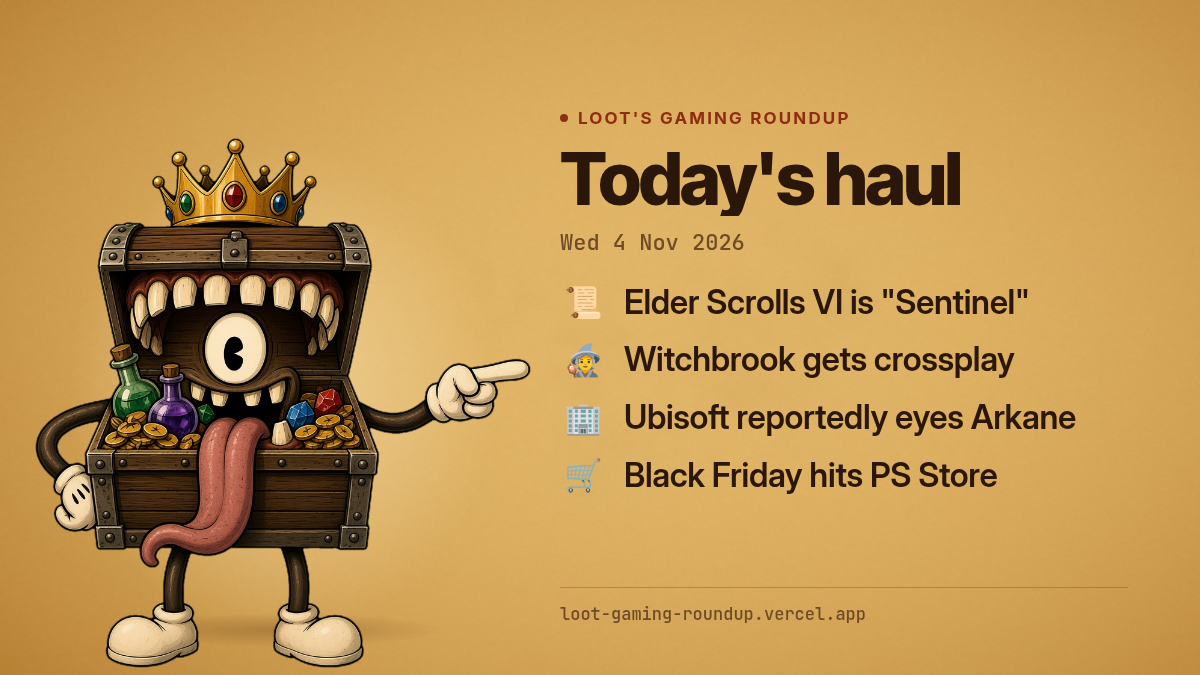
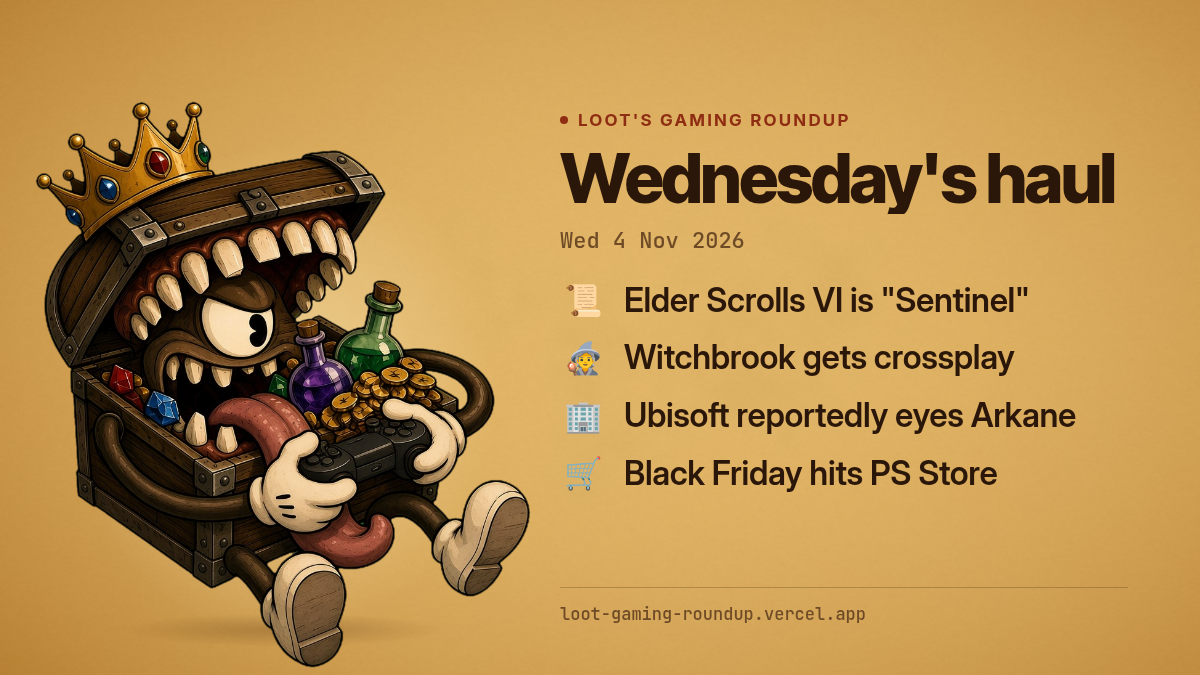
Backfill X haul images for archive tiles (11–30 Oct, 4–6 Nov)

diff --git a/archive.html b/archive.html
@@ -248,7 +248,7 @@ a.ed-tile:focus-visible{outline:2px solid var(--accent);outline-offset:3px;borde
 </div>
 </header>
 <div class="wrap wrap--archive" id="top">
-<div class="intro"><div class="kicker"><span class="dot"></span>Archive</div><div class="date">Every past edition, newest first</div></div><div class="archive-kpis"><div class="archive-kpi is-hero" title="Sum of each edition&#x27;s unique visitors. Someone who reads two editions is counted in each. Home-page visits are not included."><span class="archive-kpi-label">Unique visitors</span><span class="archive-kpi-value">5</span></div><div class="archive-kpi"><span class="archive-kpi-label">Editions</span><span class="archive-kpi-value">31</span></div><div class="archive-kpi"><span class="archive-kpi-label">Stories</span><span class="archive-kpi-value">331</span></div></div><section id="archive"><h2>Past editions<span class="count">2026 · 31 editions</span></h2><ul class="archive-grid"><li><a class="ed-tile" href="/2026-11-10.html" aria-label="Tuesday 10 November 2026, 10 stories, 0 unique visitors" title="Tuesday 10 November 2026, 10 stories, 0 unique visitors"><img src="/x/2026-11-10.png" alt="Tuesday&#x27;s haul" width="1200" height="675" loading="lazy" decoding="async"></a></li><li><a class="ed-tile" href="/2026-11-09.html" aria-label="Monday 9 November 2026, 10 stories, 0 unique visitors" title="Monday 9 November 2026, 10 stories, 0 unique visitors"><img src="/x/2026-11-09.png" alt="Monday&#x27;s haul" width="1200" height="675" loading="lazy" decoding="async"></a></li><li><a class="ed-tile" href="/2026-11-08.html" aria-label="Sunday 8 November 2026, 7 stories, 0 unique visitors" title="Sunday 8 November 2026, 7 stories, 0 unique visitors"><img src="/x/2026-11-08.png" alt="Sunday&#x27;s haul" width="1200" height="675" loading="lazy" decoding="async"></a></li><li><a class="ed-tile" href="/2026-11-07.html" aria-label="Saturday 7 November 2026, 8 stories, 0 unique visitors" title="Saturday 7 November 2026, 8 stories, 0 unique visitors"><img src="/x/2026-11-07.png" alt="Saturday&#x27;s haul" width="1200" height="675" loading="lazy" decoding="async"></a></li><li><a class="ed-tile ed-tile-text" href="/2026-11-06.html" aria-label="Friday 6 November 2026, 12 stories"><div><h3 class="ed-tile-title">Friday</h3><div class="ed-tile-date">Fri 6 Nov 2026</div></div><div class="ed-tile-stats"><span><b>12</b> stories</span></div></a></li><li><a class="ed-tile ed-tile-text" href="/2026-11-05.html" aria-label="Thursday 5 November 2026, 12 stories"><div><h3 class="ed-tile-title">Thursday</h3><div class="ed-tile-date">Thu 5 Nov 2026</div></div><div class="ed-tile-stats"><span><b>12</b> stories</span></div></a></li><li><a class="ed-tile ed-tile-text" href="/2026-11-04.html" aria-label="Wednesday 4 November 2026, 12 stories"><div><h3 class="ed-tile-title">Wednesday</h3><div class="ed-tile-date">Wed 4 Nov 2026</div></div><div class="ed-tile-stats"><span><b>12</b> stories</span></div></a></li><li><a class="ed-tile ed-tile-text" href="/2026-11-03.html" aria-label="Tuesday 3 November 2026, 14 stories"><div><h3 class="ed-tile-title">Tuesday</h3><div class="ed-tile-date">Tue 3 Nov 2026</div></div><div class="ed-tile-stats"><span><b>14</b> stories</span></div></a></li><li><a class="ed-tile ed-tile-text" href="/2026-11-02.html" aria-label="Monday 2 November 2026, 13 stories"><div><h3 class="ed-tile-title">Monday</h3><div class="ed-tile-date">Mon 2 Nov 2026</div></div><div class="ed-tile-stats"><span><b>13</b> stories</span></div></a></li><li><a class="ed-tile ed-tile-text" href="/2026-11-01.html" aria-label="Sunday 1 November 2026, 11 stories"><div><h3 class="ed-tile-title">Sunday</h3><div class="ed-tile-date">Sun 1 Nov 2026</div></div><div class="ed-tile-stats"><span><b>11</b> stories</span></div></a></li><li><a class="ed-tile ed-tile-text" href="/2026-10-31.html" aria-label="Saturday 31 October 2026, 12 stories"><div><h3 class="ed-tile-title">Saturday</h3><div class="ed-tile-date">Sat 31 Oct 2026</div></div><div class="ed-tile-stats"><span><b>12</b> stories</span></div></a></li><li><a class="ed-tile ed-tile-text" href="/2026-10-30.html" aria-label="Friday 30 October 2026, 11 stories"><div><h3 class="ed-tile-title">Friday</h3><div class="ed-tile-date">Fri 30 Oct 2026</div></div><div class="ed-tile-stats"><span><b>11</b> stories</span></div></a></li><li><a class="ed-tile ed-tile-text" href="/2026-10-29.html" aria-label="Thursday 29 October 2026, 12 stories"><div><h3 class="ed-tile-title">Thursday</h3><div class="ed-tile-date">Thu 29 Oct 2026</div></div><div class="ed-tile-stats"><span><b>12</b> stories</span></div></a></li><li><a class="ed-tile ed-tile-text" href="/2026-10-28.html" aria-label="Wednesday 28 October 2026, 11 stories"><div><h3 class="ed-tile-title">Wednesday</h3><div class="ed-tile-date">Wed 28 Oct 2026</div></div><div class="ed-tile-stats"><span><b>11</b> stories</span></div></a></li><li><a class="ed-tile ed-tile-text" href="/2026-10-27.html" aria-label="Tuesday 27 October 2026, 9 stories"><div><h3 class="ed-tile-title">Tuesday</h3><div class="ed-tile-date">Tue 27 Oct 2026</div></div><div class="ed-tile-stats"><span><b>9</b> stories</span></div></a></li><li><a class="ed-tile ed-tile-text" href="/2026-10-26.html" aria-label="Monday 26 October 2026, 8 stories"><div><h3 class="ed-tile-title">Monday</h3><div class="ed-tile-date">Mon 26 Oct 2026</div></div><div class="ed-tile-stats"><span><b>8</b> stories</span></div></a></li><li><a class="ed-tile ed-tile-text" href="/2026-10-25.html" aria-label="Sunday 25 October 2026, 8 stories"><div><h3 class="ed-tile-title">Sunday</h3><div class="ed-tile-date">Sun 25 Oct 2026</div></div><div class="ed-tile-stats"><span><b>8</b> stories</span></div></a></li><li><a class="ed-tile ed-tile-text" href="/2026-10-24.html" aria-label="Saturday 24 October 2026, 12 stories"><div><h3 class="ed-tile-title">Saturday</h3><div class="ed-tile-date">Sat 24 Oct 2026</div></div><div class="ed-tile-stats"><span><b>12</b> stories</span></div></a></li><li><a class="ed-tile ed-tile-text" href="/2026-10-23.html" aria-label="Friday 23 October 2026, 11 stories"><div><h3 class="ed-tile-title">Friday</h3><div class="ed-tile-date">Fri 23 Oct 2026</div></div><div class="ed-tile-stats"><span><b>11</b> stories</span></div></a></li><li><a class="ed-tile ed-tile-text" href="/2026-10-22.html" aria-label="Thursday 22 October 2026, 8 stories"><div><h3 class="ed-tile-title">Thursday</h3><div class="ed-tile-date">Thu 22 Oct 2026</div></div><div class="ed-tile-stats"><span><b>8</b> stories</span></div></a></li><li><a class="ed-tile ed-tile-text" href="/2026-10-21.html" aria-label="Wednesday 21 October 2026, 12 stories"><div><h3 class="ed-tile-title">Wednesday</h3><div class="ed-tile-date">Wed 21 Oct 2026</div></div><div class="ed-tile-stats"><span><b>12</b> stories</span></div></a></li><li><a class="ed-tile ed-tile-text" href="/2026-10-20.html" aria-label="Tuesday 20 October 2026, 10 stories"><div><h3 class="ed-tile-title">Tuesday</h3><div class="ed-tile-date">Tue 20 Oct 2026</div></div><div class="ed-tile-stats"><span><b>10</b> stories</span></div></a></li><li><a class="ed-tile ed-tile-text" href="/2026-10-19.html" aria-label="Monday 19 October 2026, 10 stories"><div><h3 class="ed-tile-title">Monday</h3><div class="ed-tile-date">Mon 19 Oct 2026</div></div><div class="ed-tile-stats"><span><b>10</b> stories</span></div></a></li><li><a class="ed-tile ed-tile-text" href="/2026-10-18.html" aria-label="Sunday 18 October 2026, 9 stories"><div><h3 class="ed-tile-title">Sunday</h3><div class="ed-tile-date">Sun 18 Oct 2026</div></div><div class="ed-tile-stats"><span><b>9</b> stories</span></div></a></li><li><a class="ed-tile ed-tile-text" href="/2026-10-17.html" aria-label="Saturday 17 October 2026, 16 stories"><div><h3 class="ed-tile-title">Saturday</h3><div class="ed-tile-date">Sat 17 Oct 2026</div></div><div class="ed-tile-stats"><span><b>16</b> stories</span></div></a></li><li><a class="ed-tile ed-tile-text" href="/2026-10-16.html" aria-label="Friday 16 October 2026, 11 stories"><div><h3 class="ed-tile-title">Friday</h3><div class="ed-tile-date">Fri 16 Oct 2026</div></div><div class="ed-tile-stats"><span><b>11</b> stories</span></div></a></li><li><a class="ed-tile ed-tile-text" href="/2026-10-15.html" aria-label="Thursday 15 October 2026, 12 stories"><div><h3 class="ed-tile-title">Thursday</h3><div class="ed-tile-date">Thu 15 Oct 2026</div></div><div class="ed-tile-stats"><span><b>12</b> stories</span></div></a></li><li><a class="ed-tile ed-tile-text" href="/2026-10-14.html" aria-label="Wednesday 14 October 2026, 12 stories"><div><h3 class="ed-tile-title">Wednesday</h3><div class="ed-tile-date">Wed 14 Oct 2026</div></div><div class="ed-tile-stats"><span><b>12</b> stories</span></div></a></li><li><a class="ed-tile ed-tile-text" href="/2026-10-13.html" aria-label="Tuesday 13 October 2026, 8 stories"><div><h3 class="ed-tile-title">Tuesday</h3><div class="ed-tile-date">Tue 13 Oct 2026</div></div><div class="ed-tile-stats"><span><b>8</b> stories</span></div></a></li><li><a class="ed-tile ed-tile-text" href="/2026-10-12.html" aria-label="Monday 12 October 2026, 10 stories"><div><h3 class="ed-tile-title">Monday</h3><div class="ed-tile-date">Mon 12 Oct 2026</div></div><div class="ed-tile-stats"><span><b>10</b> stories</span></div></a></li><li><a class="ed-tile ed-tile-text" href="/2026-10-11.html" aria-label="Sunday 11 October 2026, 10 stories"><div><h3 class="ed-tile-title">Sunday</h3><div class="ed-tile-date">Sun 11 Oct 2026</div></div><div class="ed-tile-stats"><span><b>10</b> stories</span></div></a></li></ul></section>
+<div class="intro"><div class="kicker"><span class="dot"></span>Archive</div><div class="date">Every past edition, newest first</div></div><div class="archive-kpis"><div class="archive-kpi is-hero" title="Sum of each edition&#x27;s unique visitors. Someone who reads two editions is counted in each. Home-page visits are not included."><span class="archive-kpi-label">Unique visitors</span><span class="archive-kpi-value">5</span></div><div class="archive-kpi"><span class="archive-kpi-label">Editions</span><span class="archive-kpi-value">31</span></div><div class="archive-kpi"><span class="archive-kpi-label">Stories</span><span class="archive-kpi-value">331</span></div></div><section id="archive"><h2>Past editions<span class="count">2026 · 31 editions</span></h2><ul class="archive-grid"><li><a class="ed-tile" href="/2026-11-10.html" aria-label="Tuesday 10 November 2026, 10 stories, 0 unique visitors" title="Tuesday 10 November 2026, 10 stories, 0 unique visitors"><img src="/x/2026-11-10.png" alt="Tuesday&#x27;s haul" width="1200" height="675" loading="lazy" decoding="async"></a></li><li><a class="ed-tile" href="/2026-11-09.html" aria-label="Monday 9 November 2026, 10 stories, 0 unique visitors" title="Monday 9 November 2026, 10 stories, 0 unique visitors"><img src="/x/2026-11-09.png" alt="Monday&#x27;s haul" width="1200" height="675" loading="lazy" decoding="async"></a></li><li><a class="ed-tile" href="/2026-11-08.html" aria-label="Sunday 8 November 2026, 7 stories, 0 unique visitors" title="Sunday 8 November 2026, 7 stories, 0 unique visitors"><img src="/x/2026-11-08.png" alt="Sunday&#x27;s haul" width="1200" height="675" loading="lazy" decoding="async"></a></li><li><a class="ed-tile" href="/2026-11-07.html" aria-label="Saturday 7 November 2026, 8 stories, 0 unique visitors" title="Saturday 7 November 2026, 8 stories, 0 unique visitors"><img src="/x/2026-11-07.png" alt="Saturday&#x27;s haul" width="1200" height="675" loading="lazy" decoding="async"></a></li><li><a class="ed-tile" href="/2026-11-06.html" aria-label="Friday 6 November 2026, 12 stories, 0 unique visitors" title="Friday 6 November 2026, 12 stories, 0 unique visitors"><img src="/x/2026-11-06.png" alt="Friday&#x27;s haul" width="1200" height="675" loading="lazy" decoding="async"></a></li><li><a class="ed-tile" href="/2026-11-05.html" aria-label="Thursday 5 November 2026, 12 stories, 0 unique visitors" title="Thursday 5 November 2026, 12 stories, 0 unique visitors"><img src="/x/2026-11-05.png" alt="Thursday&#x27;s haul" width="1200" height="675" loading="lazy" decoding="async"></a></li><li><a class="ed-tile" href="/2026-11-04.html" aria-label="Wednesday 4 November 2026, 12 stories, 0 unique visitors" title="Wednesday 4 November 2026, 12 stories, 0 unique visitors"><img src="/x/2026-11-04.png" alt="Wednesday&#x27;s haul" width="1200" height="675" loading="lazy" decoding="async"></a></li><li><a class="ed-tile ed-tile-text" href="/2026-11-03.html" aria-label="Tuesday 3 November 2026, 14 stories"><div><h3 class="ed-tile-title">Tuesday</h3><div class="ed-tile-date">Tue 3 Nov 2026</div></div><div class="ed-tile-stats"><span><b>14</b> stories</span></div></a></li><li><a class="ed-tile ed-tile-text" href="/2026-11-02.html" aria-label="Monday 2 November 2026, 13 stories"><div><h3 class="ed-tile-title">Monday</h3><div class="ed-tile-date">Mon 2 Nov 2026</div></div><div class="ed-tile-stats"><span><b>13</b> stories</span></div></a></li><li><a class="ed-tile ed-tile-text" href="/2026-11-01.html" aria-label="Sunday 1 November 2026, 11 stories"><div><h3 class="ed-tile-title">Sunday</h3><div class="ed-tile-date">Sun 1 Nov 2026</div></div><div class="ed-tile-stats"><span><b>11</b> stories</span></div></a></li><li><a class="ed-tile ed-tile-text" href="/2026-10-31.html" aria-label="Saturday 31 October 2026, 12 stories"><div><h3 class="ed-tile-title">Saturday</h3><div class="ed-tile-date">Sat 31 Oct 2026</div></div><div class="ed-tile-stats"><span><b>12</b> stories</span></div></a></li><li><a class="ed-tile" href="/2026-10-30.html" aria-label="Friday 30 October 2026, 11 stories, 2 unique visitors" title="Friday 30 October 2026, 11 stories, 2 unique visitors"><img src="/x/2026-10-30.png" alt="Friday&#x27;s haul" width="1200" height="675" loading="lazy" decoding="async"></a></li><li><a class="ed-tile" href="/2026-10-29.html" aria-label="Thursday 29 October 2026, 12 stories, 0 unique visitors" title="Thursday 29 October 2026, 12 stories, 0 unique visitors"><img src="/x/2026-10-29.png" alt="Thursday&#x27;s haul" width="1200" height="675" loading="lazy" decoding="async"></a></li><li><a class="ed-tile" href="/2026-10-28.html" aria-label="Wednesday 28 October 2026, 11 stories, 0 unique visitors" title="Wednesday 28 October 2026, 11 stories, 0 unique visitors"><img src="/x/2026-10-28.png" alt="Wednesday&#x27;s haul" width="1200" height="675" loading="lazy" decoding="async"></a></li><li><a class="ed-tile" href="/2026-10-27.html" aria-label="Tuesday 27 October 2026, 9 stories, 0 unique visitors" title="Tuesday 27 October 2026, 9 stories, 0 unique visitors"><img src="/x/2026-10-27.png" alt="Tuesday&#x27;s haul" width="1200" height="675" loading="lazy" decoding="async"></a></li><li><a class="ed-tile" href="/2026-10-26.html" aria-label="Monday 26 October 2026, 8 stories, 0 unique visitors" title="Monday 26 October 2026, 8 stories, 0 unique visitors"><img src="/x/2026-10-26.png" alt="Monday&#x27;s haul" width="1200" height="675" loading="lazy" decoding="async"></a></li><li><a class="ed-tile" href="/2026-10-25.html" aria-label="Sunday 25 October 2026, 8 stories, 1 unique visitor" title="Sunday 25 October 2026, 8 stories, 1 unique visitor"><img src="/x/2026-10-25.png" alt="Sunday&#x27;s haul" width="1200" height="675" loading="lazy" decoding="async"></a></li><li><a class="ed-tile" href="/2026-10-24.html" aria-label="Saturday 24 October 2026, 12 stories, 2 unique visitors" title="Saturday 24 October 2026, 12 stories, 2 unique visitors"><img src="/x/2026-10-24.png" alt="Saturday&#x27;s haul" width="1200" height="675" loading="lazy" decoding="async"></a></li><li><a class="ed-tile" href="/2026-10-23.html" aria-label="Friday 23 October 2026, 11 stories, 0 unique visitors" title="Friday 23 October 2026, 11 stories, 0 unique visitors"><img src="/x/2026-10-23.png" alt="Friday&#x27;s haul" width="1200" height="675" loading="lazy" decoding="async"></a></li><li><a class="ed-tile" href="/2026-10-22.html" aria-label="Thursday 22 October 2026, 8 stories, 0 unique visitors" title="Thursday 22 October 2026, 8 stories, 0 unique visitors"><img src="/x/2026-10-22.png" alt="Thursday&#x27;s haul" width="1200" height="675" loading="lazy" decoding="async"></a></li><li><a class="ed-tile" href="/2026-10-21.html" aria-label="Wednesday 21 October 2026, 12 stories" title="Wednesday 21 October 2026, 12 stories"><img src="/x/2026-10-21.png" alt="Wednesday&#x27;s haul" width="1200" height="675" loading="lazy" decoding="async"></a></li><li><a class="ed-tile" href="/2026-10-20.html" aria-label="Tuesday 20 October 2026, 10 stories" title="Tuesday 20 October 2026, 10 stories"><img src="/x/2026-10-20.png" alt="Tuesday&#x27;s haul" width="1200" height="675" loading="lazy" decoding="async"></a></li><li><a class="ed-tile" href="/2026-10-19.html" aria-label="Monday 19 October 2026, 10 stories" title="Monday 19 October 2026, 10 stories"><img src="/x/2026-10-19.png" alt="Monday&#x27;s haul" width="1200" height="675" loading="lazy" decoding="async"></a></li><li><a class="ed-tile" href="/2026-10-18.html" aria-label="Sunday 18 October 2026, 9 stories" title="Sunday 18 October 2026, 9 stories"><img src="/x/2026-10-18.png" alt="Sunday&#x27;s haul" width="1200" height="675" loading="lazy" decoding="async"></a></li><li><a class="ed-tile" href="/2026-10-17.html" aria-label="Saturday 17 October 2026, 16 stories" title="Saturday 17 October 2026, 16 stories"><img src="/x/2026-10-17.png" alt="Saturday&#x27;s haul" width="1200" height="675" loading="lazy" decoding="async"></a></li><li><a class="ed-tile" href="/2026-10-16.html" aria-label="Friday 16 October 2026, 11 stories" title="Friday 16 October 2026, 11 stories"><img src="/x/2026-10-16.png" alt="Friday&#x27;s haul" width="1200" height="675" loading="lazy" decoding="async"></a></li><li><a class="ed-tile" href="/2026-10-15.html" aria-label="Thursday 15 October 2026, 12 stories" title="Thursday 15 October 2026, 12 stories"><img src="/x/2026-10-15.png" alt="Thursday&#x27;s haul" width="1200" height="675" loading="lazy" decoding="async"></a></li><li><a class="ed-tile" href="/2026-10-14.html" aria-label="Wednesday 14 October 2026, 12 stories" title="Wednesday 14 October 2026, 12 stories"><img src="/x/2026-10-14.png" alt="Wednesday&#x27;s haul" width="1200" height="675" loading="lazy" decoding="async"></a></li><li><a class="ed-tile" href="/2026-10-13.html" aria-label="Tuesday 13 October 2026, 8 stories" title="Tuesday 13 October 2026, 8 stories"><img src="/x/2026-10-13.png" alt="Tuesday&#x27;s haul" width="1200" height="675" loading="lazy" decoding="async"></a></li><li><a class="ed-tile" href="/2026-10-12.html" aria-label="Monday 12 October 2026, 10 stories" title="Monday 12 October 2026, 10 stories"><img src="/x/2026-10-12.png" alt="Monday&#x27;s haul" width="1200" height="675" loading="lazy" decoding="async"></a></li><li><a class="ed-tile" href="/2026-10-11.html" aria-label="Sunday 11 October 2026, 10 stories" title="Sunday 11 October 2026, 10 stories"><img src="/x/2026-10-11.png" alt="Sunday&#x27;s haul" width="1200" height="675" loading="lazy" decoding="async"></a></li></ul></section>
 <footer><div class="sign">Compiled by Loot</div><div class="footer-x"><a href="https://x.com/LootRoundup" target="_blank" rel="noopener noreferrer"><svg viewBox="0 0 24 24" width="14" height="14" aria-hidden="true" fill="currentColor"><path d="M18.244 2.25h3.308l-7.227 8.26 8.502 11.24H16.17l-5.214-6.817L4.99 21.75H1.68l7.73-8.835L1.254 2.25H8.08l4.713 6.231zm-1.161 17.52h1.833L7.084 4.126H5.117z"/></svg><span>Follow @LootRoundup</span></a></div></footer>
 </div>
 </body>
